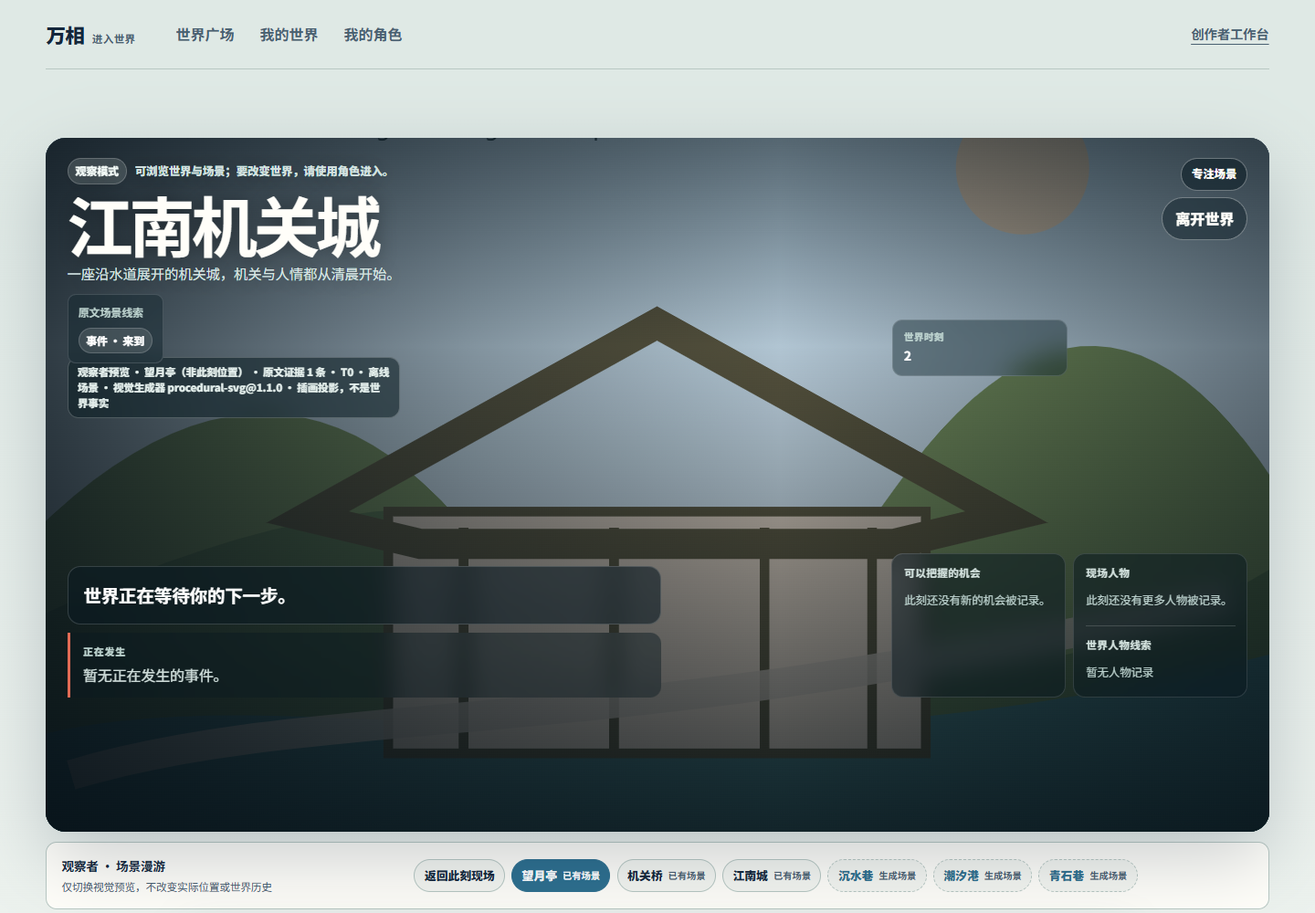
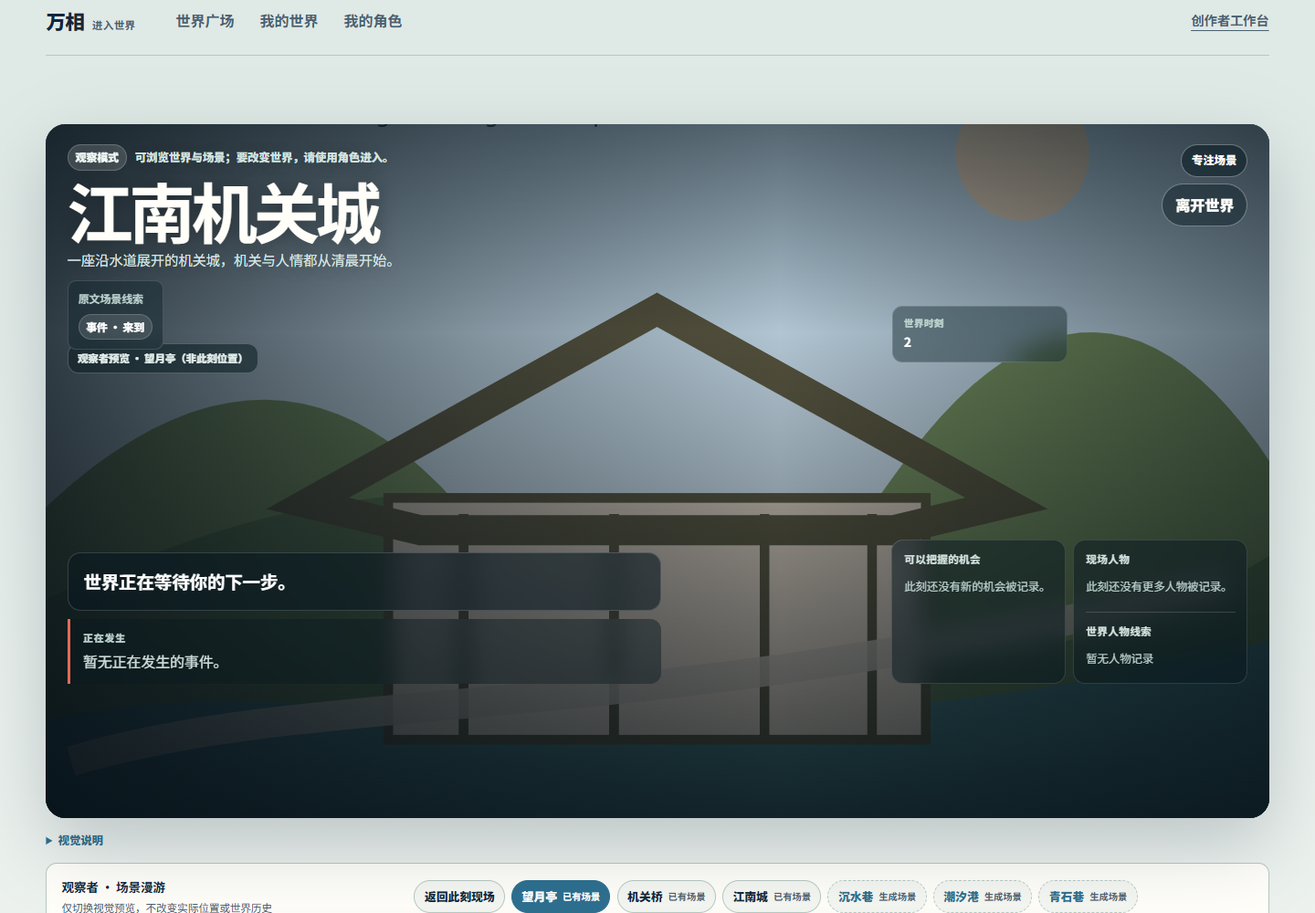
feat(player): move the visual proof into its own disclosure band
The stage line and the World Detail plate line concatenated the engineering proof
with the consumer copy (`T0 · 离线场景 · 视觉生成器 procedural-svg@1.1.0`, the evidence
count and the illustrative warning), and every gallery chip repeated it. The earlier
attempt was reverted because it nested the disclosure inside the absolutely
positioned visual layer and stripped the plate proof without replacing it.

- the stage gets a band of its own (`#world-stage-proof`, a sibling of the visual
  layer and of the story band) holding `<details id="visual-proof">`
- the World Detail plate gets `#detail-visual-proof`; both plate caption writers
  (select and render) changed together, so the plate line keeps only the place
  name, the atlas caption and the place count
- gallery chips keep the place name; the tier proof lives in the disclosures
- the heading comes from the copy catalogue in both locales
  (`visual_proof_heading` -> 视觉说明 / Visual details)
- the M95 browser journey now reads the proof from the opened disclosure and
  asserts the consumer lines no longer carry it; a contract spec pins the band,
  the absence of the old concatenation and the localized heading
- refreshed simulated-journey evidence: its rows 4 and 6 no longer contain the
  proof string

diff --git a/apps/api/src/wanxiang_api/player_ui_script.py b/apps/api/src/wanxiang_api/player_ui_script.py
@@ -83,7 +83,8 @@ function focusDetailVisual(item,galleryItems){
   const image=$("detail-visual-image");
   const label=item.kind==="atlas"?tr("visual_atlas_label"):item.place_name||model.world?.world?.name||tr("world");
   image.hidden=false;image.src=item.data_uri;image.alt=item.kind==="atlas"?tr("visual_atlas_alt",{place:model.world?.world?.name||tr("world")}):tr("visual_scene_alt",{place:label});image.dataset.selectedPlace=item.place_name||"";
-  $("detail-visual-caption").textContent=item.kind==="atlas"?tr("visual_atlas_caption")+((model.world?.world?.visual?.places||[]).length>24?` · ${tr("visual_place_count",{visible:24,total:(model.world?.world?.visual?.places||[]).length})}`:""):`${label} · ${visualProof(item)}`;
+  $("detail-visual-caption").textContent=item.kind==="atlas"?tr("visual_atlas_caption")+((model.world?.world?.visual?.places||[]).length>24?` · ${tr("visual_place_count",{visible:24,total:(model.world?.world?.visual?.places||[]).length})}`:""):label;
+  $("detail-visual-proof").hidden=false;$("detail-visual-proof-copy").textContent=visualProof(item);
   renderAtlasEntrances(item,galleryItems);
   window.__WANXIANG_PANORAMA_UPGRADE__?.render(item.kind==="atlas"?null:item,tr);
   renderSpatialPanel(item.kind==="atlas"?null:item);
@@ -110,8 +111,8 @@ function renderVisualPlaceList(scenes,galleryItems,visual){
 function renderDetail(preferredPlace=""){
   const world=model.world.world;
   const setting=world.setting||{};
-  const scenes=world.visual?.scenes||[],topology=world.visual?.topology||[],atlas=world.visual?.atlas||null;const visual=(preferredPlace?scenes.find(item=>item.place_name===preferredPlace):null)||atlas||scenes[0]||null;const visualImg=$("detail-visual-image");visualImg.hidden=!visual;visualImg.dataset.selectedPlace=visual?.place_name||"";if(visual){visualImg.src=visual.data_uri;visualImg.alt=visual.kind==="atlas"?tr("visual_atlas_alt",{place:world.name}):tr("visual_scene_alt",{place:visual.place_name||world.name});$("detail-visual-caption").textContent=visual.kind==="atlas"?tr("visual_atlas_caption")+((world.visual?.places||[]).length>24?` · ${tr("visual_place_count",{visible:24,total:(world.visual?.places||[]).length})}`:""):`${visual.place_name||world.name} · ${visualProof(visual)}`}else{$("detail-visual-caption").textContent=tr("world_plate_copy")}
-  const galleryItems=atlas?[atlas,...scenes]:scenes;renderAtlasEntrances(visual,galleryItems);const galleryWrap=$("visual-gallery-wrap"),gallery=$("visual-gallery");galleryWrap.hidden=!galleryItems.length;gallery.innerHTML=galleryItems.map((item,index)=>{const label=item.kind==="atlas"?tr("visual_atlas_label"):item.place_name||world.name;return `<button class="visual-thumb" type="button" data-visual-index="${index}" aria-pressed="${item===visual?"true":"false"}"><img alt="" src="${safe(item.data_uri)}"><span>${safe(label)}${item.kind==="atlas"?"":`<small class="visual-proof">${safe(visualProof(item))}</small>`}</span></button>`}).join("");gallery.querySelectorAll("[data-visual-index]").forEach(node=>node.addEventListener("click",()=>{const item=galleryItems[Number(node.dataset.visualIndex)]||null;if(item)focusDetailVisual(item,galleryItems)}));const places=world.visual?.places||[],placesWrap=$("visual-places-wrap");placesWrap.hidden=!places.length;const placeSearch=$("visual-place-search");placeSearch.value=model.placeQuery;placeSearch.oninput=()=>{model.placeQuery=placeSearch.value;model.placeLimit=36;renderVisualPlaceList(scenes,galleryItems,visual)};$("visual-place-more").onclick=()=>{model.placeLimit+=36;renderVisualPlaceList(scenes,galleryItems,visual)};renderVisualPlaceList(scenes,galleryItems,visual);const relationsWrap=$("visual-relations-wrap"),relations=$("visual-relations");relationsWrap.hidden=!topology.length;relations.innerHTML=topology.map(item=>`<span class="visual-relation${item.conflicting?" is-conflicting":""}" title="${safe(item.conflicting?tr("visual_relation_conflict"):"")}">${safe(item.from)} <b>→</b> ${safe(item.to)} <small class="visual-relation-type">${safe(atlasRelationLabel(item.relation_type))}</small>${item.conflicting?` <span class="visual-relation-conflict">⚠ ${safe(tr("visual_relation_conflict"))}</span>`:""}</span>`).join("");$("detail-title").textContent=world.name;$("detail-plate-title").textContent=world.name;$("detail-description").textContent=world.description;$("detail-scenario").textContent=world.scenario.name;$("detail-opening").textContent=world.scenario.opening;$("detail-era").textContent=shown(setting.era);$("detail-location").textContent=shown(setting.location);$("detail-environment").textContent=shown(setting.environment);$("detail-time").textContent=shown(setting.time,"time_after_enter");$("detail-now").textContent=shown(setting.happening);$("detail-mode").textContent=world.mode||tr("mode_character");
+  const scenes=world.visual?.scenes||[],topology=world.visual?.topology||[],atlas=world.visual?.atlas||null;const visual=(preferredPlace?scenes.find(item=>item.place_name===preferredPlace):null)||atlas||scenes[0]||null;const visualImg=$("detail-visual-image");visualImg.hidden=!visual;visualImg.dataset.selectedPlace=visual?.place_name||"";if(visual){visualImg.src=visual.data_uri;visualImg.alt=visual.kind==="atlas"?tr("visual_atlas_alt",{place:world.name}):tr("visual_scene_alt",{place:visual.place_name||world.name});$("detail-visual-caption").textContent=visual.kind==="atlas"?tr("visual_atlas_caption")+((world.visual?.places||[]).length>24?` · ${tr("visual_place_count",{visible:24,total:(world.visual?.places||[]).length})}`:""):`${visual.place_name||world.name}`}else{$("detail-visual-caption").textContent=tr("world_plate_copy")}$("detail-visual-proof").hidden=!visual;if(visual)$("detail-visual-proof-copy").textContent=visualProof(visual)
+  const galleryItems=atlas?[atlas,...scenes]:scenes;renderAtlasEntrances(visual,galleryItems);const galleryWrap=$("visual-gallery-wrap"),gallery=$("visual-gallery");galleryWrap.hidden=!galleryItems.length;gallery.innerHTML=galleryItems.map((item,index)=>{const label=item.kind==="atlas"?tr("visual_atlas_label"):item.place_name||world.name;return `<button class="visual-thumb" type="button" data-visual-index="${index}" aria-pressed="${item===visual?"true":"false"}"><img alt="" src="${safe(item.data_uri)}"><span>${safe(label)}</span></button>`}).join("");gallery.querySelectorAll("[data-visual-index]").forEach(node=>node.addEventListener("click",()=>{const item=galleryItems[Number(node.dataset.visualIndex)]||null;if(item)focusDetailVisual(item,galleryItems)}));const places=world.visual?.places||[],placesWrap=$("visual-places-wrap");placesWrap.hidden=!places.length;const placeSearch=$("visual-place-search");placeSearch.value=model.placeQuery;placeSearch.oninput=()=>{model.placeQuery=placeSearch.value;model.placeLimit=36;renderVisualPlaceList(scenes,galleryItems,visual)};$("visual-place-more").onclick=()=>{model.placeLimit+=36;renderVisualPlaceList(scenes,galleryItems,visual)};renderVisualPlaceList(scenes,galleryItems,visual);const relationsWrap=$("visual-relations-wrap"),relations=$("visual-relations");relationsWrap.hidden=!topology.length;relations.innerHTML=topology.map(item=>`<span class="visual-relation${item.conflicting?" is-conflicting":""}" title="${safe(item.conflicting?tr("visual_relation_conflict"):"")}">${safe(item.from)} <b>→</b> ${safe(item.to)} <small class="visual-relation-type">${safe(atlasRelationLabel(item.relation_type))}</small>${item.conflicting?` <span class="visual-relation-conflict">⚠ ${safe(tr("visual_relation_conflict"))}</span>`:""}</span>`).join("");$("detail-title").textContent=world.name;$("detail-plate-title").textContent=world.name;$("detail-description").textContent=world.description;$("detail-scenario").textContent=world.scenario.name;$("detail-opening").textContent=world.scenario.opening;$("detail-era").textContent=shown(setting.era);$("detail-location").textContent=shown(setting.location);$("detail-environment").textContent=shown(setting.environment);$("detail-time").textContent=shown(setting.time,"time_after_enter");$("detail-now").textContent=shown(setting.happening);$("detail-mode").textContent=world.mode||tr("mode_character");
   window.__WANXIANG_PANORAMA_UPGRADE__?.render(visual?.kind==="atlas"?null:visual,tr);
   renderSpatialPanel(visual?.kind==="atlas"?null:visual);
   const list=$("character-list"),items=model.world.characters||[];
@@ -171,7 +172,7 @@ function changeDeltas(item){const rows=Array.isArray(item.deltas)?item.deltas:[]
 function atlasRelationLabel(value){const raw=String(value||"").toLowerCase();return (raw.includes("route")||raw.includes("path")||raw.includes("walk")||raw.includes("travel"))?tr("atlas_relation_route"):tr("atlas_relation_default")}
 function relationLabel(value){const raw=String(value||"").toLowerCase();if(raw.includes("friend"))return tr("relation_friend");if(raw.includes("family"))return tr("relation_family");if(raw.includes("work"))return tr("relation_work");return tr("relation_default")}
 function renderPlay(){
-  const replay=model.replay||null,v=replay?.view||model.view||{},w=v.world||{},observer=!replay&&v.session?.entry_mode==="observer",readOnly=Boolean(replay)||observer;const worldVisual=observer&&model.world?.world?.profile_id===w.profile_id?(model.world.world.visual||{}):{};const sceneCatalog=worldVisual.scenes||[],placeCatalog=worldVisual.places||[];const toured=sceneCatalog.find(item=>item.place_name===model.observerScene)||null;const visual=toured||v.visual_scene||null;const stage=$("world-stage"),frame=$("scene-visual-frame"),visualImg=$("scene-visual-image");frame.hidden=!visual;stage?.classList.toggle("has-visual",Boolean(visual));if(!visual)model.stageFocus=false;stage?.classList.toggle("focus-mode",model.stageFocus);$("stage-focus-toggle").setAttribute("aria-pressed",String(model.stageFocus));$("stage-focus-toggle").textContent=tr(model.stageFocus?"stage_focus_restore":"stage_focus_enable");$("stage-focus-toggle").disabled=!visual;$("fork-worldline").hidden=readOnly;if(visual){visualImg.src=visual.data_uri;visualImg.alt=tr("visual_scene_alt",{place:visual.place_name||w.name||tr("world")});const groundingKey=replay?"replay_scene_caption":toured?"observer_tour_caption":visual.grounding==="current_location"?"visual_current_scene":visual.grounding==="entry_location"?"visual_entry_scene":"visual_world_preview";$("scene-visual-caption").textContent=`${tr(groundingKey,{place:visual.place_name||shown(v.location)})} · ${visualProof(visual)}`}
+  const replay=model.replay||null,v=replay?.view||model.view||{},w=v.world||{},observer=!replay&&v.session?.entry_mode==="observer",readOnly=Boolean(replay)||observer;const worldVisual=observer&&model.world?.world?.profile_id===w.profile_id?(model.world.world.visual||{}):{};const sceneCatalog=worldVisual.scenes||[],placeCatalog=worldVisual.places||[];const toured=sceneCatalog.find(item=>item.place_name===model.observerScene)||null;const visual=toured||v.visual_scene||null;const stage=$("world-stage"),frame=$("scene-visual-frame"),visualImg=$("scene-visual-image");frame.hidden=!visual;$("world-stage-proof").hidden=!visual;stage?.classList.toggle("has-visual",Boolean(visual));if(!visual)model.stageFocus=false;stage?.classList.toggle("focus-mode",model.stageFocus);$("stage-focus-toggle").setAttribute("aria-pressed",String(model.stageFocus));$("stage-focus-toggle").textContent=tr(model.stageFocus?"stage_focus_restore":"stage_focus_enable");$("stage-focus-toggle").disabled=!visual;$("fork-worldline").hidden=readOnly;if(visual){visualImg.src=visual.data_uri;visualImg.alt=tr("visual_scene_alt",{place:visual.place_name||w.name||tr("world")});const groundingKey=replay?"replay_scene_caption":toured?"observer_tour_caption":visual.grounding==="current_location"?"visual_current_scene":visual.grounding==="entry_location"?"visual_entry_scene":"visual_world_preview";$("scene-visual-caption").textContent=`${tr(groundingKey,{place:visual.place_name||shown(v.location)})}`;$("visual-proof-copy").textContent=visualProof(visual)}
   const replayBanner=$("stage-replay-banner");replayBanner.hidden=!replay;if(replay){$("stage-replay-copy").textContent=tr("replay_banner",{time:replay.replay?.world_ticks??0,count:replay.replay?.event_count??0})}
   const panoramaStage=window.__WANXIANG_PANORAMA_STAGE__;panoramaStage?.sync(visual);$("panorama-stage-toggle").textContent=tr(panoramaStage?.isActive()?"panorama_stage_exit":"panorama_stage_enter");
   const spatialStage=window.__WANXIANG_SPATIAL_STAGE__;spatialStage?.sync(visual,w.profile_id,headers);$("spatial-stage-toggle").textContent=tr(spatialStage?.isActive()?"spatial_stage_exit":"spatial_stage_enter");

diff --git a/apps/api/src/wanxiang_api/player_ui_asset.py b/apps/api/src/wanxiang_api/player_ui_asset.py
@@ -72,7 +72,7 @@ def player_html(locale: str | None = None) -> str:
         f'<section class="home-shelf" aria-labelledby="recent-heading"><div class="shelf-head"><div><h3 id="recent-heading">{text("recent_heading")}</h3><p>{text("recent_intro")}</p></div></div><div class="recent-list" id="recent-list"></div></section>'
         f'<section class="home-shelf" aria-labelledby="home-characters-heading"><div class="shelf-head"><div><h3 id="home-characters-heading">{text("home_characters_heading")}</h3><p>{text("home_characters_intro")}</p></div><button class="text-button" type="button" data-nav="characters-view">{text("view_all_characters")}</button></div><div class="character-list compact-list" id="home-character-list"></div></section></div></section>'
         f'<section class="view" id="detail-view" aria-labelledby="detail-title"><div class="section-head"><button class="text-button" id="back-to-plaza">{text("back_plaza")}</button></div>'
-        f'<div class="detail-layout"><div class="detail-plate"><img class="world-visual" id="detail-visual-image" alt="" aria-describedby="detail-visual-caption" hidden><div class="visual-shade"></div><h2 id="detail-plate-title">{text("world")}</h2><p id="detail-visual-caption">{text("world_plate_copy")}</p><nav class="atlas-entrances" id="atlas-entrances" aria-label="{text("atlas_entrances_heading")}" hidden></nav></div>'
+        f'<div class="detail-layout"><div class="detail-plate"><img class="world-visual" id="detail-visual-image" alt="" aria-describedby="detail-visual-caption" hidden><div class="visual-shade"></div><h2 id="detail-plate-title">{text("world")}</h2><p id="detail-visual-caption">{text("world_plate_copy")}</p><details class="visual-proof" id="detail-visual-proof" hidden><summary>{text("visual_proof_heading")}</summary><p id="detail-visual-proof-copy"></p></details><nav class="atlas-entrances" id="atlas-entrances" aria-label="{text("atlas_entrances_heading")}" hidden></nav></div>'
         f'<div class="detail-copy"><h2 id="detail-title">{text("world")}</h2><p id="detail-description"></p><dl class="detail-grid">'
         f'<div class="detail-cell"><dt>{text("scenario_label")}</dt><dd id="detail-scenario">{text("not_recorded")}</dd></div><div class="detail-cell"><dt>{text("era_label")}</dt><dd id="detail-era">{text("not_recorded")}</dd></div><div class="detail-cell"><dt>{text("location_label")}</dt><dd id="detail-location">{text("not_recorded")}</dd></div><div class="detail-cell"><dt>{text("environment_label")}</dt><dd id="detail-environment">{text("not_recorded")}</dd></div><div class="detail-cell"><dt>{text("time_label")}</dt><dd id="detail-time">{text("time_after_enter")}</dd></div><div class="detail-cell"><dt>{text("now_label")}</dt><dd id="detail-now">{text("not_recorded")}</dd></div></dl>'
         f'<div class="detail-mode"><span>{text("mode_label")}</span><strong id="detail-mode">{text("mode_character")}</strong></div>'
@@ -102,6 +102,7 @@ def player_html(locale: str | None = None) -> str:
         f'<div class="scene-visual-clues-wrap world-stage-clues" id="scene-visual-clues-wrap" hidden><strong id="scene-visual-clues-heading">{text("visual_clues_heading")}</strong><div class="scene-visual-clues" id="scene-visual-clues" role="list" aria-labelledby="scene-visual-clues-heading"></div></div>'
         f'<div class="world-stage-story"><div class="narrative" id="narrative" aria-live="polite">{text("narrative_waiting")}</div><div class="world-stage-event"><span class="stage-label">{text("happening_heading")}</span><div id="current-event" class="plain-list"></div></div></div>'
         f'<div class="world-stage-context"><section><h3>{text("opportunities_heading")}</h3><ul class="plain-list" id="opportunity-list"></ul></section><section><h3>{text("people_heading")}</h3><ul class="plain-list" id="people-list"></ul><h3 class="world-people-clue-heading">{text("known_people_heading")}</h3><ul class="plain-list" id="known-people-list"></ul></section></div></section>'
+        f'<div class="world-stage-proof" id="world-stage-proof" hidden><details class="visual-proof" id="visual-proof"><summary>{text("visual_proof_heading")}</summary><p id="visual-proof-copy"></p></details></div>'
         f'<div class="stage-replay-banner" id="stage-replay-banner" hidden><span id="stage-replay-copy"></span><button class="stage-replay-exit" id="stage-replay-exit" type="button">{text("replay_exit")}</button></div>'
         f'<div class="worldline-panel" id="worldline-panel" role="region" aria-labelledby="worldline-heading" hidden><div class="worldline-heading"><strong id="worldline-heading">{text("worldlines_heading")}</strong><button class="text-button" id="worldline-close" type="button">{text("worldline_close")}</button></div><ul class="plain-list" id="worldline-list"></ul><div class="worldline-compare" id="worldline-compare" aria-live="polite" hidden></div></div>'
         f'<div class="observer-scene-explorer" id="observer-scene-explorer" hidden><div class="observer-tour-heading"><strong>{text("observer_tour_heading")}</strong><span>{text("observer_tour_hint")}</span></div><nav id="observer-scene-list" aria-label="{text("observer_tour_heading")}"></nav></div>'

diff --git a/tests/integration/test_m95_player_experience_browser.py b/tests/integration/test_m95_player_experience_browser.py
@@ -629,8 +629,17 @@ def test_chinese_player_journey_over_sqlite_runtime(persist_db_path: pathlib.Pat
                     "未配置可用的全景生成器" in page.locator("#panorama-upgrade-copy").inner_text()
                 )
                 assert page.locator("#panorama-upgrade-submit").is_hidden()
-                assert "原文证据" in page.locator("#detail-visual-caption").inner_text()
-                assert "插画投影" in page.locator("#detail-visual-caption").inner_text()
+                # The proof is behind the plate disclosure now, not on the plate line.
+                plate_caption = page.locator("#detail-visual-caption").inner_text()
+                assert "原文证据" not in plate_caption
+                assert "插画投影" not in plate_caption
+                plate_proof = page.locator("#detail-visual-proof")
+                assert plate_proof.get_attribute("open") is None
+                plate_proof.locator("summary").click()
+                assert plate_proof.get_attribute("open") is not None
+                plate_proof_copy = page.locator("#detail-visual-proof-copy").inner_text()
+                assert "原文证据" in plate_proof_copy
+                assert "插画投影" in plate_proof_copy
                 assert page.locator("#spatial-upgrade-panel").is_visible()
                 assert "未配置空间生成器" in page.locator("#spatial-upgrade-copy").inner_text()
                 assert page.locator("#spatial-submit").is_hidden()
@@ -714,12 +723,19 @@ def test_chinese_player_journey_over_sqlite_runtime(persist_db_path: pathlib.Pat
                 generated_stage_button.wait_for(state="visible")
                 assert deferred_stage_name in page.locator("#scene-visual-caption").inner_text()
                 assert "非此刻位置" in page.locator("#scene-visual-caption").inner_text()
-                assert "原文证据" in page.locator("#scene-visual-caption").inner_text()
-                assert (
-                    "视觉生成器 procedural-svg@1.1.0"
-                    in page.locator("#scene-visual-caption").inner_text()
-                )
-                assert "插画投影" in page.locator("#scene-visual-caption").inner_text()
+                # The stage line states the grounding; the proof lives in its own band.
+                stage_caption = page.locator("#scene-visual-caption").inner_text()
+                assert "原文证据" not in stage_caption
+                assert "视觉生成器" not in stage_caption
+                assert "插画投影" not in stage_caption
+                stage_proof = page.locator("#visual-proof")
+                assert stage_proof.get_attribute("open") is None
+                stage_proof.locator("summary").click()
+                assert stage_proof.get_attribute("open") is not None
+                stage_proof_copy = page.locator("#visual-proof-copy").inner_text()
+                assert "原文证据" in stage_proof_copy
+                assert "视觉生成器 procedural-svg@1.1.0" in stage_proof_copy
+                assert "插画投影" in stage_proof_copy
                 assert page.locator("#play-location").inner_text() == before_location
                 assert page.locator("#send-action").is_disabled()
                 scene_button = page.locator(

diff --git a/tests/api/test_player_ui_visual_tier_contract.py b/tests/api/test_player_ui_visual_tier_contract.py
@@ -46,3 +46,39 @@ def test_visual_generation_budget_errors_are_localized_and_not_generic() -> None
     assert "额度已用完" in chinese.text("error_visual_budget_exhausted")
     assert "duplicate billing" in english.text("error_visual_attempt_reserved")
     assert "budget is exhausted" in english.text("error_visual_budget_exhausted")
+
+
+def test_visual_proof_lives_in_its_own_disclosure_band() -> None:
+    """The tier/provider proof belongs behind a disclosure, not on the consumer line."""
+
+    from wanxiang_api.player_ui_asset import player_html
+    from wanxiang_api.player_ui_script import SCRIPT
+    from wanxiang_substrate.playable.player_i18n import _copy_for
+
+    html = player_html("zh-CN")
+
+    # One band of its own for the stage, one disclosure on the World Detail plate.
+    assert 'id="world-stage-proof"' in html
+    assert 'id="visual-proof-copy"' in html
+    assert 'id="detail-visual-proof"' in html
+    assert 'id="detail-visual-proof-copy"' in html
+    # The stage band is a sibling of the visual layer, never nested inside it.
+    stage_figure = html[
+        html.index('id="scene-visual-frame"') : html.index('id="world-stage-panorama"')
+    ]
+    assert "visual-proof" not in stage_figure
+    assert html.index('id="world-stage-proof"') > html.index('id="scene-visual-frame"')
+
+    # The proof is written into the disclosures, and nowhere on the consumer lines.
+    # One definition plus the three disclosure writers (stage, plate select, plate render).
+    assert SCRIPT.count("visualProof(") == 4
+    assert 'visual-proof-copy").textContent=visualProof(visual)' in SCRIPT
+    assert 'detail-visual-proof-copy").textContent=visualProof(' in SCRIPT
+    assert " · ${visualProof(visual)}" not in SCRIPT
+    assert " · ${visualProof(item)}" not in SCRIPT
+    assert '<small class="visual-proof">' not in SCRIPT
+
+    heading_zh = _copy_for("zh-CN").text("visual_proof_heading")
+    heading_en = _copy_for("en-US").text("visual_proof_heading")
+    assert heading_zh == "视觉说明"
+    assert heading_en == "Visual details"

diff --git a/apps/api/src/wanxiang_api/player_ui_style.py b/apps/api/src/wanxiang_api/player_ui_style.py
@@ -152,6 +152,15 @@ button:focus-visible,a:focus-visible,input:focus-visible,textarea:focus-visible{
 .stage-replay-banner[hidden]{display:none}
 .stage-replay-banner span{font-size:.85rem;font-weight:850}
 .stage-replay-exit{min-height:36px;padding:.4rem .7rem;border:1px solid #b98a55;border-radius:999px;background:#fff;color:#5d3c18;font:inherit;font-weight:850;cursor:pointer}
+.visual-proof{max-width:min(52%,54ch);font-size:.78rem;line-height:1.5;color:var(--ink-soft)}
+.visual-proof>summary{padding:.25rem 0;color:var(--cobalt);font-weight:850;cursor:pointer}
+.visual-proof>p{margin:.3rem 0 0;padding-left:.6rem;border-left:2px solid rgba(20,38,59,.18);overflow-wrap:anywhere}
+.world-stage-proof{margin:.7rem 0 0}
+.world-stage-proof[hidden]{display:none}
+.detail-plate .visual-proof{position:relative;z-index:1;color:#d6e6e3;max-width:42ch}
+.detail-plate .visual-proof>summary{color:var(--white)}
+.detail-plate .visual-proof>p{border-left-color:rgba(255,254,249,.34)}
+@media(max-width:720px){.visual-proof{max-width:none}}
 .chronicle-replay{display:inline-flex;align-items:center;min-height:24px;border:0;background:transparent;color:var(--cobalt);font:inherit;font-size:.8rem;font-weight:900;padding:.1rem .35rem;margin-left:-.35rem;text-align:left;cursor:pointer;text-decoration:underline dotted;text-underline-offset:3px}
 .chronicle-replay:focus-visible{outline:2px solid var(--cobalt);outline-offset:2px}
 .record-heading-end{display:flex;align-items:baseline;gap:.55rem}

diff --git a/packages/substrate/src/wanxiang_substrate/playable/player_i18n_world_memory_zh.py b/packages/substrate/src/wanxiang_substrate/playable/player_i18n_world_memory_zh.py
@@ -16,6 +16,7 @@ STRINGS: dict[str, str] = {
     "chronicle_details": "记录说明",
     "atlas_relation_route": "\u8def\u7ebf",
     "atlas_relation_default": "\u6765\u6e90\u5173\u7cfb",
+    "visual_proof_heading": "\u89c6\u89c9\u8bf4\u660e",
     "list_separator": "\u3001",
     "label_separator": "\uff1a",
     "panorama_stage_aria": "360 \u5ea6\u5168\u666f",

diff --git a/packages/substrate/src/wanxiang_substrate/playable/player_i18n_world_memory_en.py b/packages/substrate/src/wanxiang_substrate/playable/player_i18n_world_memory_en.py
@@ -16,6 +16,7 @@ STRINGS: dict[str, str] = {
     "chronicle_details": "record details",
     "atlas_relation_route": "route",
     "atlas_relation_default": "source relation",
+    "visual_proof_heading": "Visual details",
     "list_separator": ", ",
     "label_separator": ": ",
     "panorama_stage_aria": "360 panorama",

diff --git a/CURRENT_PRODUCT_VISUAL_AUDIT/SIMULATED_HUMAN_JOURNEY.md b/CURRENT_PRODUCT_VISUAL_AUDIT/SIMULATED_HUMAN_JOURNEY.md
@@ -1,6 +1,6 @@
 # Simulated human journey (SIMULATED — not a human verdict)
 
-Walked at 2026-11-10 22:49 against the real server (uvicorn + Chrome) over a
+Walked at 2026-11-14 22:48 against the real server (uvicorn + Chrome) over a
 source-grounded world. Every line below is what the product actually rendered, captured by
 script. It proves the journey is walkable and unbroken; it does **not** judge comprehension,
 immersion or acceptance — those remain `WAITING_HUMAN` and must be answered by a real person
@@ -11,9 +11,9 @@ using `HUMAN_REVIEW_START_HERE.md`.
 | 1 | 导入来源并等待世界生成 | one-click 201；世界出现在世界广场 |
 | 2 | 打开世界 | 尚未生成世界视觉 世界起点 可以进入 江南机关城 一座沿水道展开的机关城，机关与人情都从清晨开始。 最近地点：望月亭 2 位人物 · 1 项事件 进入世界 ↗ |
 | 3 | World Detail 是否像世界入口 | 江南机关城 一座沿水道展开的机关城，机关与人情都从清晨开始。 世界起点 潮汐门初启 时代 尚未记录 初始地点 望月亭 环境 尚未记录 世界时刻 进入后读取 此刻 尚未记录 进入方式 角色体验 推荐开局 先听一听城门内外的水声，再决定往哪里走。 |
-| 4 | 世界图谱与地点 | 世界视觉图册 叙事世界图谱 机关桥原文证据 1 条 · T0 · 离线场景 · 视觉生成器 procedural-svg@1.1.0 · 插画投影，不是世界事实 江南城原文证据 1 条 · T0 · 离线场景 · 视觉生成器 procedural-svg@1.1.0 · 插画投影，不是世界事实 望月亭原文证据 1 条  |
+| 4 | 世界图谱与地点 | 世界视觉图册 叙事世界图谱 机关桥 江南城 望月亭 世界地点 查找地点 望月亭 已有场景 · T0 · 离线场景 机关桥 已有场景 · T0 · 离线场景 江南城 已有场景 · T0 · 离线场景 沉水巷 生成场景 潮汐港 生成场景 青石巷 生成场景 已展示 6 / 6 个地点 · 按需生成 0/24 |
 | 5 | 观察者模式是否清楚 | 世界时刻 2 || 你正在观察这个世界：角色没有移动，世界也没有因为你改变。 选择角色进入 |
-| 6 | 切换场景是否只是预览 | 观察者预览 · 望月亭（非此刻位置） · 原文证据 1 条 · T0 · 离线场景 · 视觉生成器 procedural-svg@1.1.0 · 插画投影，不是世界事实 |
+| 6 | 切换场景是否只是预览 | 观察者预览 · 望月亭（非此刻位置） |
 | 10 | 离开后是否可继续 | 继续世界 江南机关城 · 你的角色 · 世界时刻 2 上次所在：尚未记录 离开时刻：2 你离开后还没有新的世界纪事。 最后变化：新的世界事实出现在现场。 回到现场 |
 | 7 | 进入角色后的第一屏 | 世界时刻 3 初始地点 沉水巷 |
 | 8 | 三次自由行动的提交结果 | 世界变化条目 1 条 |

diff --git a/STATUS.md b/STATUS.md
@@ -35,9 +35,14 @@ without explicit authorization, and keep `REAL_T1/T2/T3` EXTERNAL_BLOCKED,
    mount / drag / reset / reduced-motion / T0 fallback in Chrome. Evidence:
    `tests/integration/test_svw_stage_renderers.py` plus
    `CURRENT_PRODUCT_VISUAL_AUDIT/stage-renderers/` (8 screenshots + `audit.json`).
-5. **Move the visual proof behind a disclosure — NOT STARTED in this round** (the four
-   measured obstacles below still stand, and the earlier attempt was reverted because it
-   broke CI). This is the only remaining step of this list.
+5. **Move the visual proof behind a disclosure — DONE (verified this pass).** The stage got
+   its own band (`#world-stage-proof`) and the World Detail plate its own disclosure
+   (`#detail-visual-proof`); the consumer lines and gallery chips no longer carry the tier
+   proof. Evidence: `tests/api/test_player_ui_visual_tier_contract.py`,
+   `tests/integration/test_m95_player_experience_browser.py`, and the refreshed
+   `CURRENT_PRODUCT_VISUAL_AUDIT/SIMULATED_HUMAN_JOURNEY.md` (its rows 4 and 6 lost the
+   proof string). The four obstacles below were the guide: (a) and (b) are why the band sits
+   outside the visual layer and both plate sites were changed in one edit.
    Four obstacles were measured, in order of importance:
    (a) the disclosure must **not** live inside `figure.world-stage-visual`: that layer is
    absolutely positioned with `overflow:hidden` and its `<img>` fills the height, so a static

diff --git a/reports/WANXIANG_SOURCE_TO_LIVING_WORLD_FINAL_REPOSITORY_CLOSURE.md b/reports/WANXIANG_SOURCE_TO_LIVING_WORLD_FINAL_REPOSITORY_CLOSURE.md
@@ -150,9 +150,13 @@ browser assertion that expected the raw atlas relation type after that type beca
 
 ## 5. Known remaining gaps (not hidden, not counted as done)
 
-1. **Visual tier proof placement.** Place chips and gallery captions still carry
-   `T0 · 离线场景 · 视觉生成器 procedural-svg@1.1.0`, i.e. part of the engineering proof is on
-   the consumer line instead of only in a disclosure.
+1. **Visual tier proof placement (closed this pass).** The stage line and the World Detail plate
+   line used to concatenate the engineering proof (`T0 · 离线场景 · 视觉生成器 procedural-svg@1.1.0`,
+   the evidence count and the illustrative warning) and every gallery chip repeated it. The stage
+   now carries that proof in its own disclosure band (`#world-stage-proof`) and the plate in
+   `#detail-visual-proof`; the consumer lines state only the grounding, the place name, the atlas
+   caption and the place count. The refreshed simulated journey shows the change directly: its
+   rows 4 and 6 no longer contain the proof string.
 2. **Localization literals (mostly closed).** The hardcoded `：` and `、` separators, the raw
    atlas `relation_type` and the English panorama aria fallback now come from the copy catalog, and
    the contract suite rejects Han characters *and* CJK punctuation in the en-US document. What
